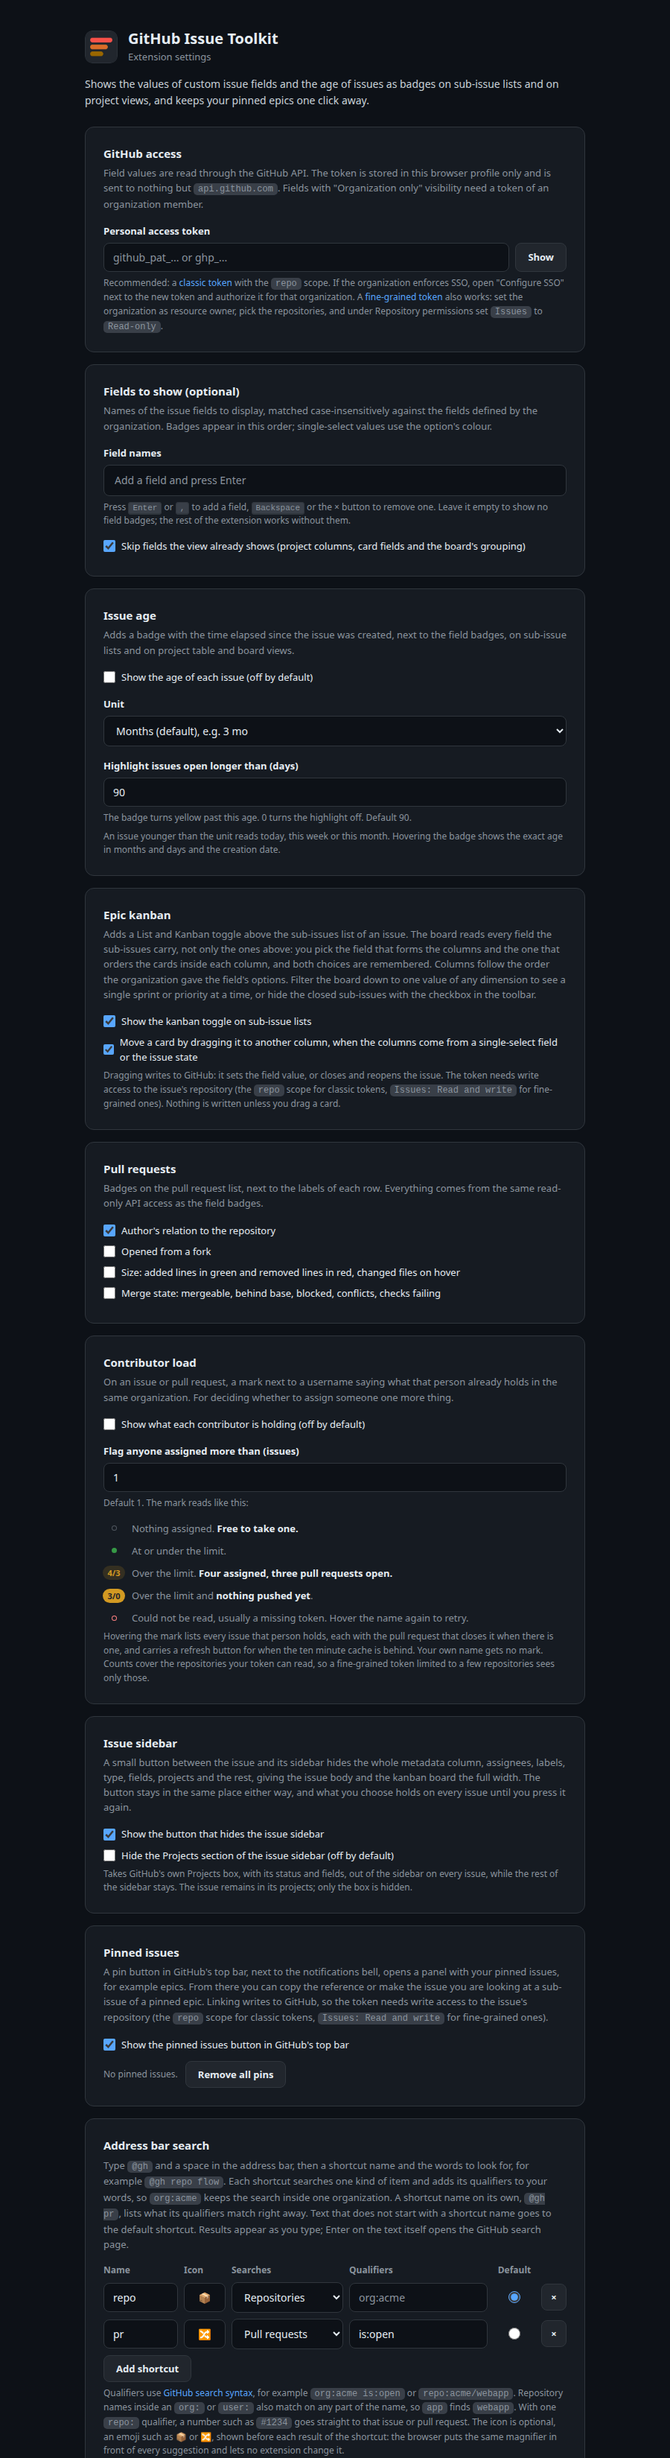
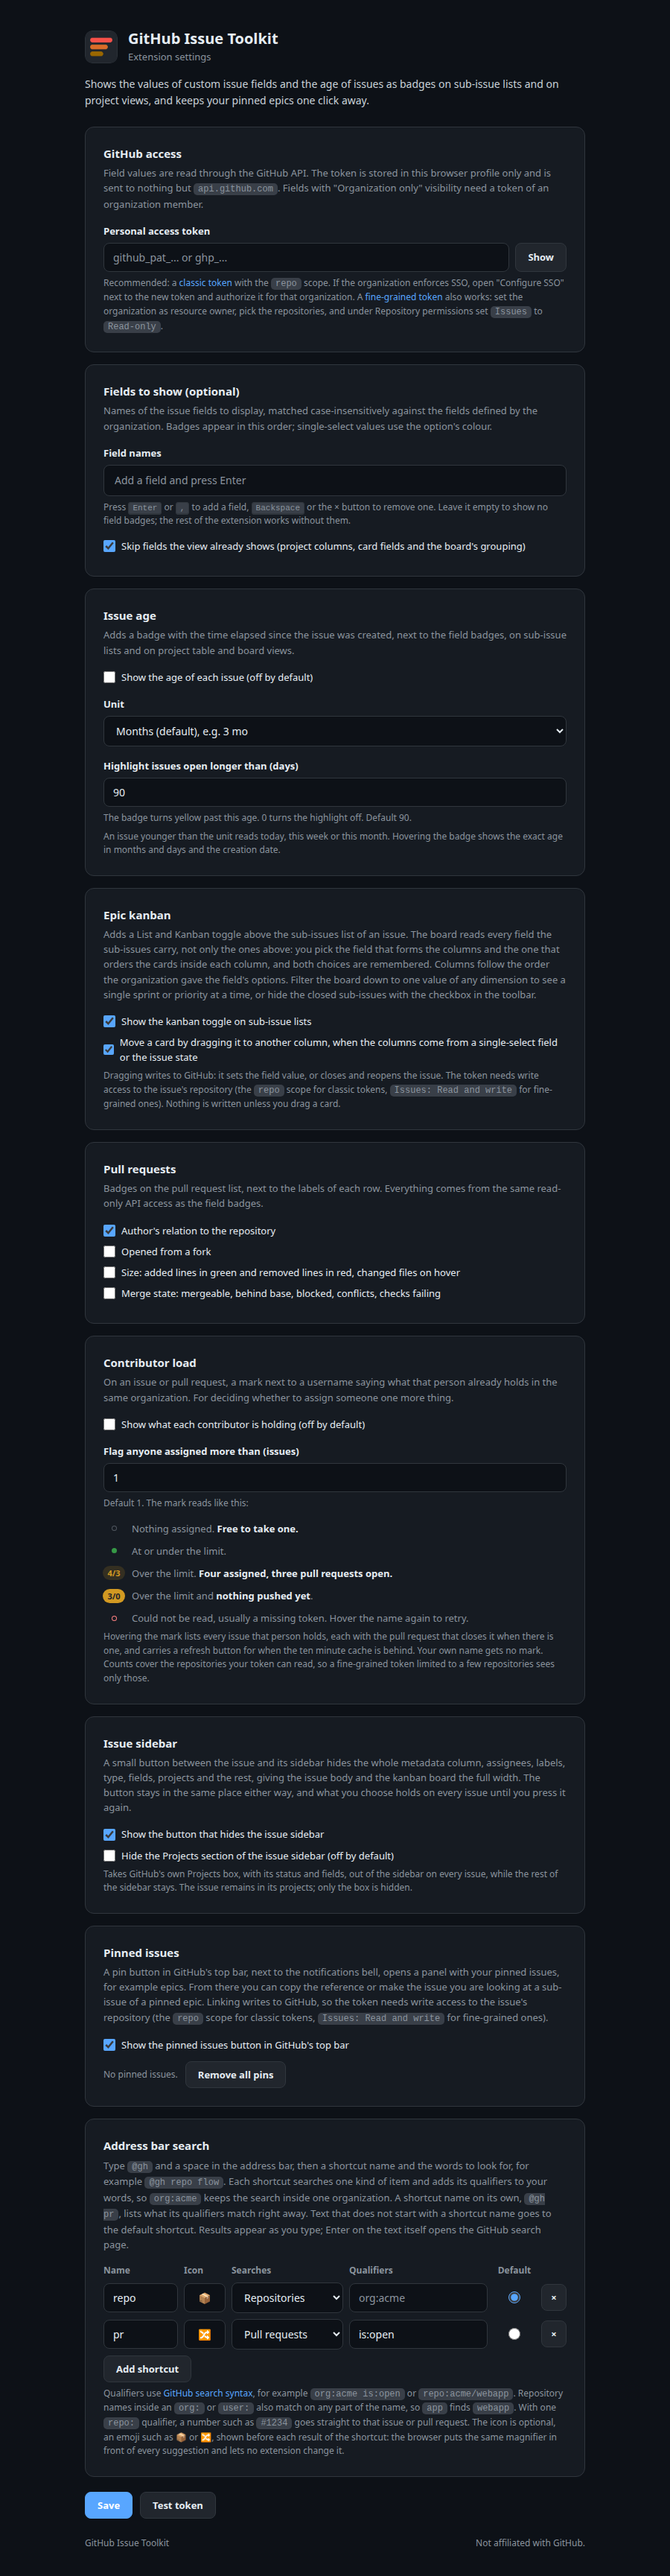
build(docs): cut the settings screenshots below the last card instead of at a fixed height
The settings page outgrew the fixed 3300 px capture once the Projects section checkbox joined the Issue sidebar card, and the Save and Test token buttons fell out of the picture; the footer was already missing before that. The page is now rendered on a 6000 px canvas and cut 40 px below the last thing drawn, so a new setting never needs the height bumped by hand.

- `scripts/render-settings.py` trims the bottom of each capture with Pillow, as `render-examples.py` already does for the examples.
- `docs/settings-light.png` and `docs/settings-dark.png` re-rendered, now showing the Projects section checkbox, the buttons and the footer.

Changed region(s): [[0.1244, 0.0, 0.84, 0.9988]]

diff --git a/scripts/render-settings.py b/scripts/render-settings.py
@@ -2,7 +2,8 @@
 """Render docs/settings-dark.png and docs/settings-light.png from options.html.
 
 The page is rendered in preview mode (no extension APIs), with the icons inlined and the dark or light
-palette forced, at 900 px wide and tall enough to show every card. Requires Google Chrome (headless).
+palette forced, at 900 px wide on a tall canvas that is then cut just below the last card, so a new setting
+never pushes the buttons out of the picture. Requires Google Chrome (headless) and Pillow.
 
 Usage: python3 scripts/render-settings.py
 """
@@ -12,8 +13,19 @@ import subprocess
 import tempfile
 from pathlib import Path
 
+from PIL import Image, ImageChops
+
 ROOT = Path(__file__).resolve().parent.parent
-HEIGHT = 3300
+HEIGHT = 6000
+PAD = 40
+
+
+def trim_bottom(path: Path) -> None:
+    im = Image.open(path).convert("RGB")
+    bg = im.getpixel((2, im.height - 2))
+    box = ImageChops.difference(im, Image.new("RGB", im.size, bg)).convert("L").point(lambda v: 255 if v > 8 else 0).getbbox()
+    if box:
+        im.crop((0, 0, im.width, min(im.height, box[3] + PAD))).save(path)
 
 
 def main() -> None:
@@ -32,7 +44,8 @@ def main() -> None:
             out = ROOT / "docs" / f"settings-{theme}.png"
             subprocess.run(["google-chrome", "--headless=new", "--no-sandbox", "--hide-scrollbars", f"--window-size=900,{HEIGHT}",
                             f"--screenshot={out}", src.as_uri()], check=True, capture_output=True, timeout=90)
-            print(f"wrote {out.relative_to(ROOT)}")
+            trim_bottom(out)
+            print(f"wrote {out.relative_to(ROOT)} {Image.open(out).size}")
 
 
 if __name__ == "__main__":
